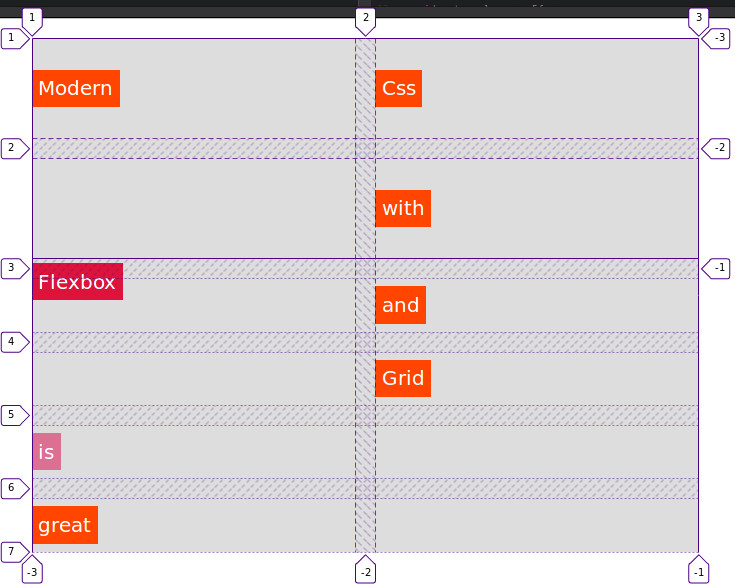
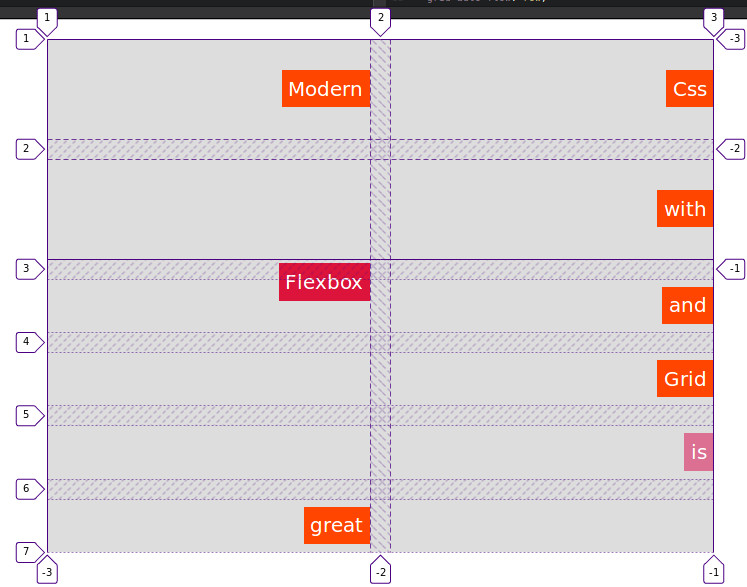
Override align-items property for one element

diff --git a/scss/style.scss b/scss/style.scss
@@ -13,7 +13,7 @@
   grid-auto-columns: .5fr;
   
   align-items: center; //STRETCH / center / end / start (STRETCH is default)
-  justify-items: start;
+  justify-items: center;
   
   .item {
     padding: 20px;
@@ -25,6 +25,7 @@
     &--4 {
       background-color: crimson;
       grid-row: 2 / span 3;
+      align-self: start;
     }
     
     &--7 {
